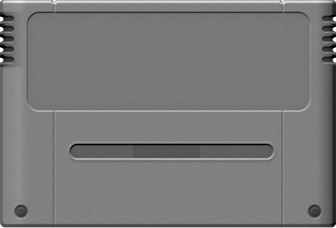
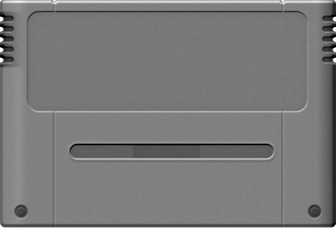
SNES PAL cart: label well concentric with the sticker on all four corners
Claude-Session: https://claude.ai/code/session_01Th8TUDMRNz4LjEMbhiKV7m

Changed region(s): [[0.0893, 0.4298, 0.9226, 0.5219], [0.0893, 0.0307, 0.8929, 0.0921], [0.8929, 0.0614, 0.9226, 0.0921]]

diff --git a/tools/carts/snes_pal_render.py b/tools/carts/snes_pal_render.py
@@ -90,7 +90,7 @@ for v in VENTS:
 vd = nd.distance_transform_edt(np.pad(vent, 1))[1:-1, 1:-1]
 height -= nd.gaussian_filter(vent.astype(np.float32), 0.5 * SS) * 2.2
 # the label recess: deep, with big rounded corners
-label = rect(0.081, 0.054, 0.923, 0.486, 0.036)  # about the sticker's own radius (Roy)
+label = rect(0.0818, 0.0504, 0.9152, 0.4891, 0.0342)  # the sticker's rect + 1.5px all round, radius r10 + 1.5: concentric (Roy)
 height -= label * 2.0
 # the middle plate below the label and the side pieces either side; a fine seam marks the plate's
 # edges all the way up to the top rim (no step across the side pieces: Roy)
